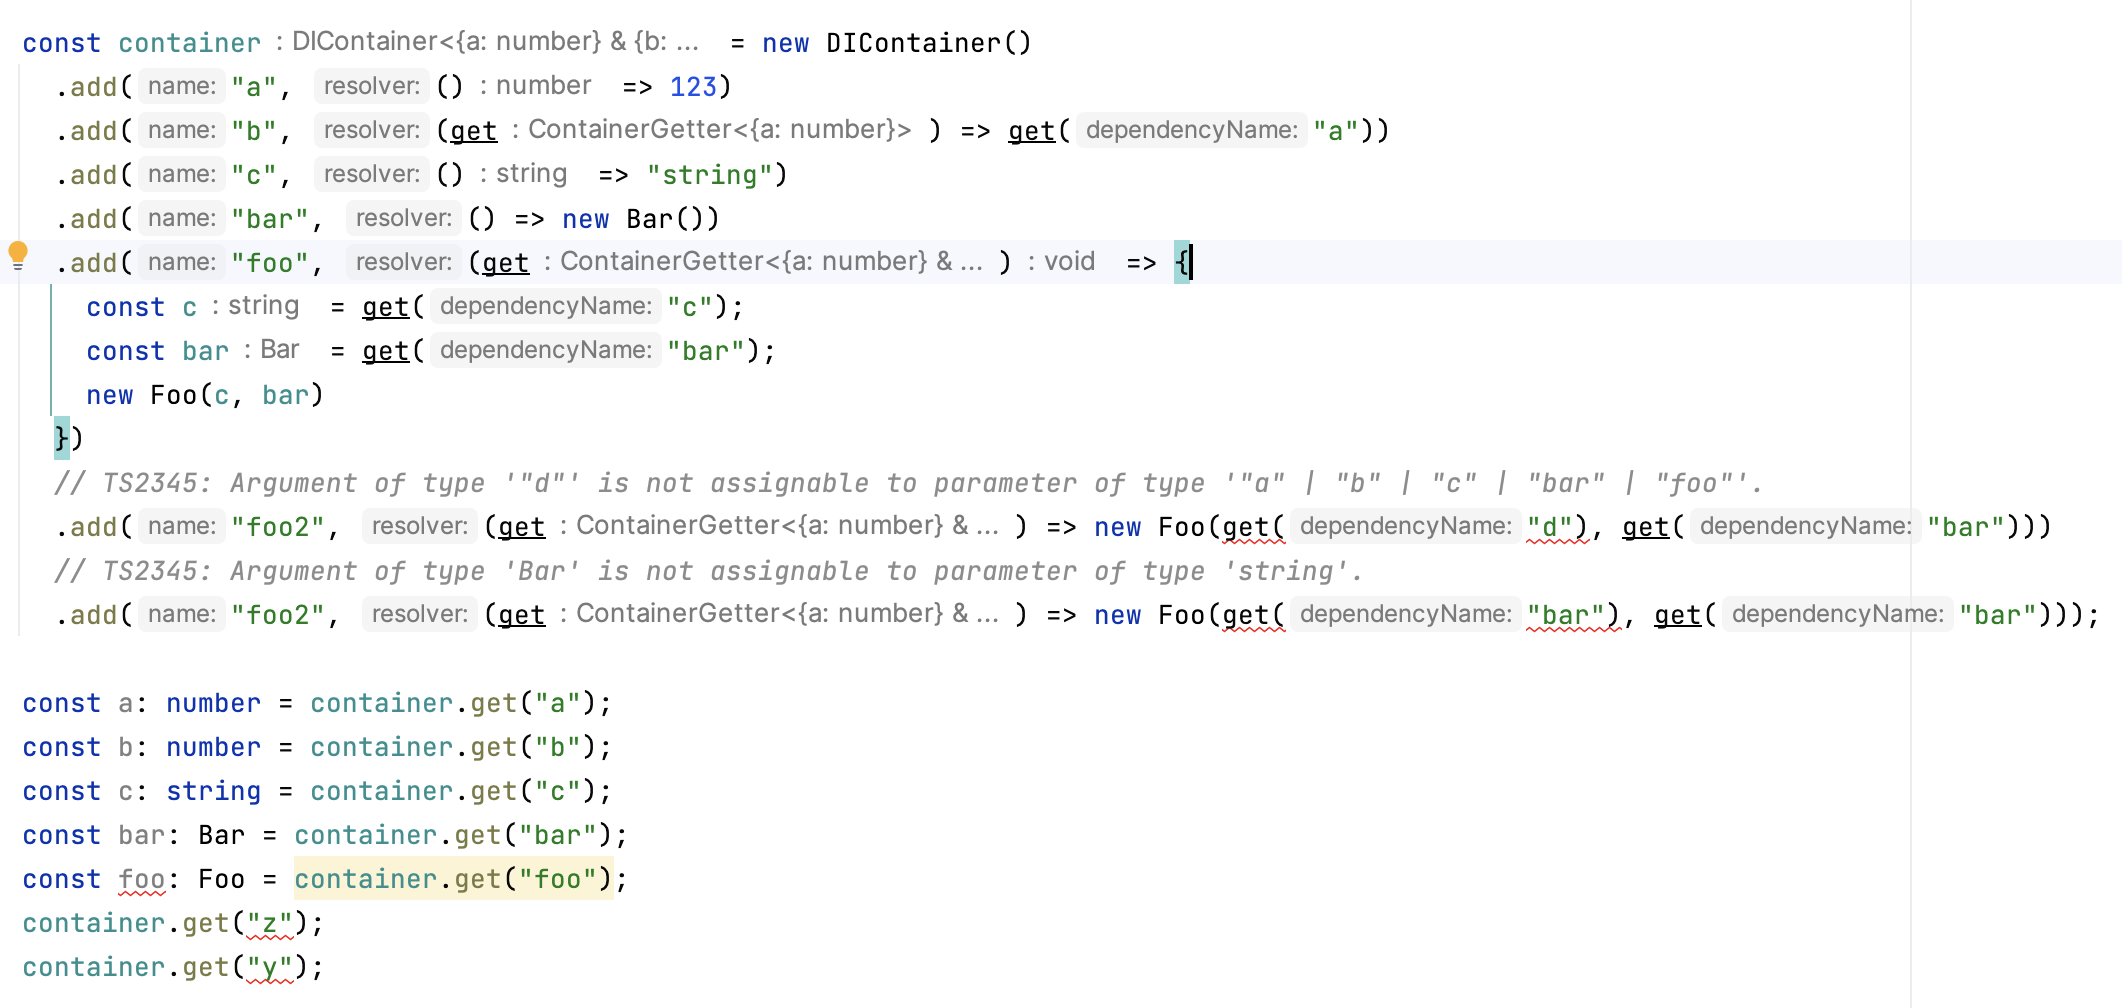
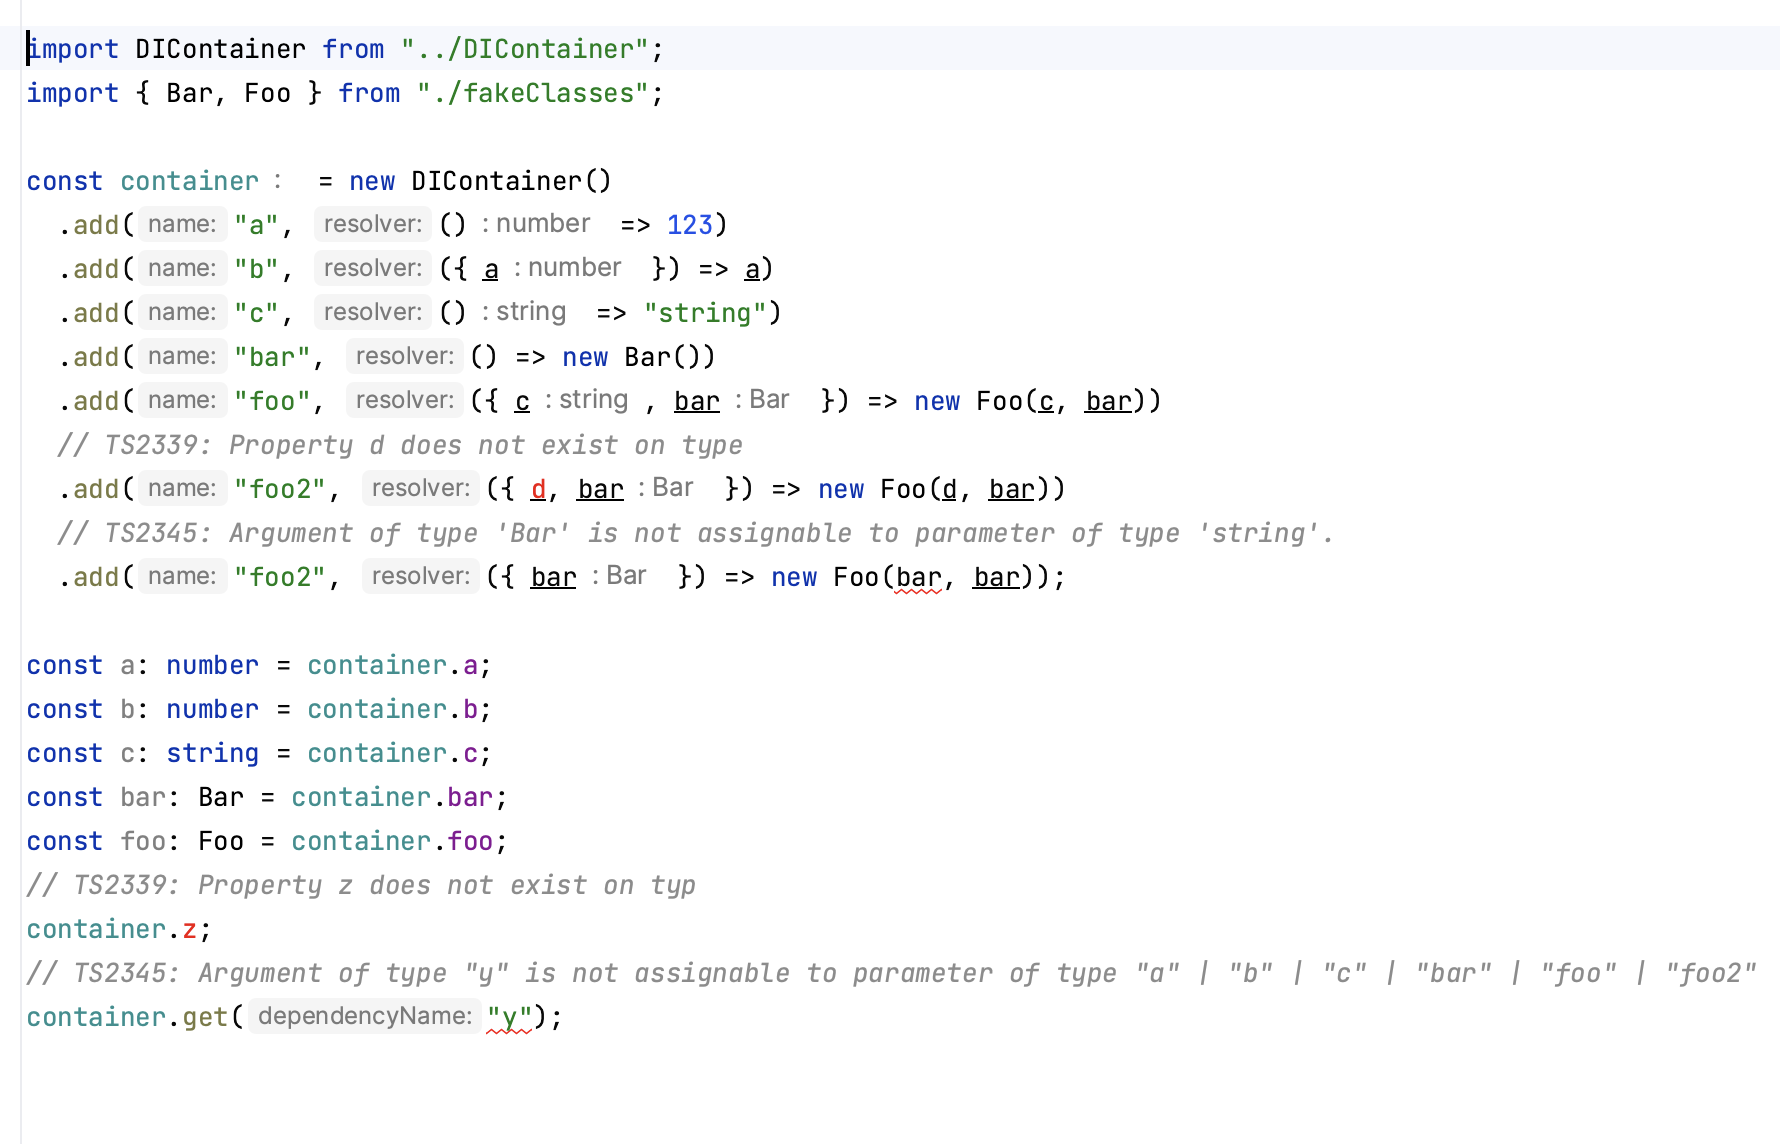
feat: updated readme

diff --git a/docs/strict_types.md b/docs/strict_types.md
@@ -1,30 +1,30 @@
-
 # Strict Types Example
 
 
 ```typescript
 
+import DIContainer from "../DIContainer";
+import { Bar, Foo } from "./fakeClasses";
+
 const container = new DIContainer()
   .add("a", () => 123)
-  .add("b", (get) => get("a"))
+  .add("b", ({ a }) => a)
   .add("c", () => "string")
   .add("bar", () => new Bar())
-  .add("foo", (get) => {
-    const c = get("c");
-    const bar = get("bar");
-    new Foo(c, bar)
-  })
-  // TS2345: Argument of type '"d"' is not assignable to parameter of type '"a" | "b" | "c" | "bar" | "foo"'.
-  .add("foo2", (get) => new Foo(get("d"), get("bar")))
+  .add("foo", ({ c, bar }) => new Foo(c, bar))
+  // TS2339: Property d does not exist on type
+  .add("foo2", ({ d, bar }) => new Foo(d, bar))
   // TS2345: Argument of type 'Bar' is not assignable to parameter of type 'string'.
-  .add("foo2", (get) => new Foo(get("bar"), get("bar")));
+  .add("foo2", ({ bar }) => new Foo(bar, bar));
 
-const a: number = container.get("a");
-const b: number = container.get("b");
-const c: string = container.get("c");
-const bar: Bar = container.get("bar");
-const foo: Foo = container.get("foo");
-container.get("z");
+const a: number = container.a;
+const b: number = container.b;
+const c: string = container.c;
+const bar: Bar = container.bar;
+const foo: Foo = container.foo;
+// TS2339: Property z does not exist on typ
+container.z;
+// TS2345: Argument of type "y" is not assignable to parameter of type "a" | "b" | "c" | "bar" | "foo" | "foo2"
 container.get("y");
 
 ```

diff --git a/README.md b/README.md
@@ -79,9 +79,9 @@ use both.
 const container = new DIContainer()
     .add("a", () => "name1")
     .add("bar", () => new Bar())
-    .add("foo", (get) => new Foo(get("a"), get("bar")));
+    .add("foo", ({ a, bar}) => new Foo(a, bar));
 
-const foo = container.get("foo");
+const { foo } = container; // or container.get("foo");
 ```
 
 ### Real life example
@@ -140,12 +140,12 @@ export type AppDIContainer = ReturnType<typeof configureDI>;
 export default function configureDI() {
   return new DIContainer()
     .add("dbConnection", buildDbConnection())
-    .add("userRepository", (get) =>
-      MyDbProviderUserRepository(get("dbConnection")),
+    .add("userRepository", ({ dbConnection }) =>
+      MyDbProviderUserRepository(dbConnection),
     )
-    .add("userRegistrator", (get) => new UserRegistrator(get("userRepository")))
-    .add("userController", (get) =>
-      UserController(get("userRepository"), get("userRegistrator")),
+    .add("userRegistrator", ({ userRepository }) => new UserRegistrator(userRepository))
+    .add("userController", ({ userRepository, userRegistrator}) =>
+      UserController(userRepository, userRegistrator),
     );
 }
 ```
@@ -193,3 +193,7 @@ The complete web application example can be found [here](https://radzserg.medium
 compile-time checks and ensure proper injection of dependencies.  
 
 ![strict type](https://github.com/radzserg/rsdi3/raw/main/docs/RSDI_types.png "RSDI types")
+
+
+## Best practices
+

diff --git a/docs/context_vs_container.md b/docs/context_vs_container.md
@@ -20,7 +20,6 @@ in big teams it can lead to redundantly cohesive project modules. Developers in 
 out of context, without thinking about the coherence in projects. Allocating a subsystem that is used by a context into
 a microservice can be a much more expensive task.
 
-
 The primary distinction between our use of context and dependency injection is that we don't transfer the container 
 between layers. Instead, we retrieve high-level components with their dependencies pre-injected at the uppermost level. 
 This could be in the form of a controller or even the entire application instance, which already possesses injected 
@@ -30,7 +29,7 @@ controllers.
 ```typescript
 // router.ts
 const configureRouter = (app: core.Express, diContainer: IDIContainer) => {
-  const usersController = diContainer.get("UsersController");
+  const { usersController } = diContainer;
   app.route('/users')
     .get(usersController.actionIndex)
     .post(usersController.actionCreate);

diff --git a/docs/async_factory_resolver.md b/docs/async_factory_resolver.md
@@ -26,11 +26,10 @@ async function configureDI() {
   const dbConnection = await createConnections();
 
   return new DIContainer()
-    .add("DbConnection", dbConnection)
-    .add("UserRepository", (get) => new UserRepository(get("DbConnection")));
+    .add("dbConnection", dbConnection)
+    .add("userRepository", ({ dbConnection }) => new UserRepository( dbConnection ));
 }
 
 // main.ts
-const diContainer = await configureDI();
-const userRepository = diContainer.get("UserRepository");
+const { userRepository } = diContainer;
 ```
